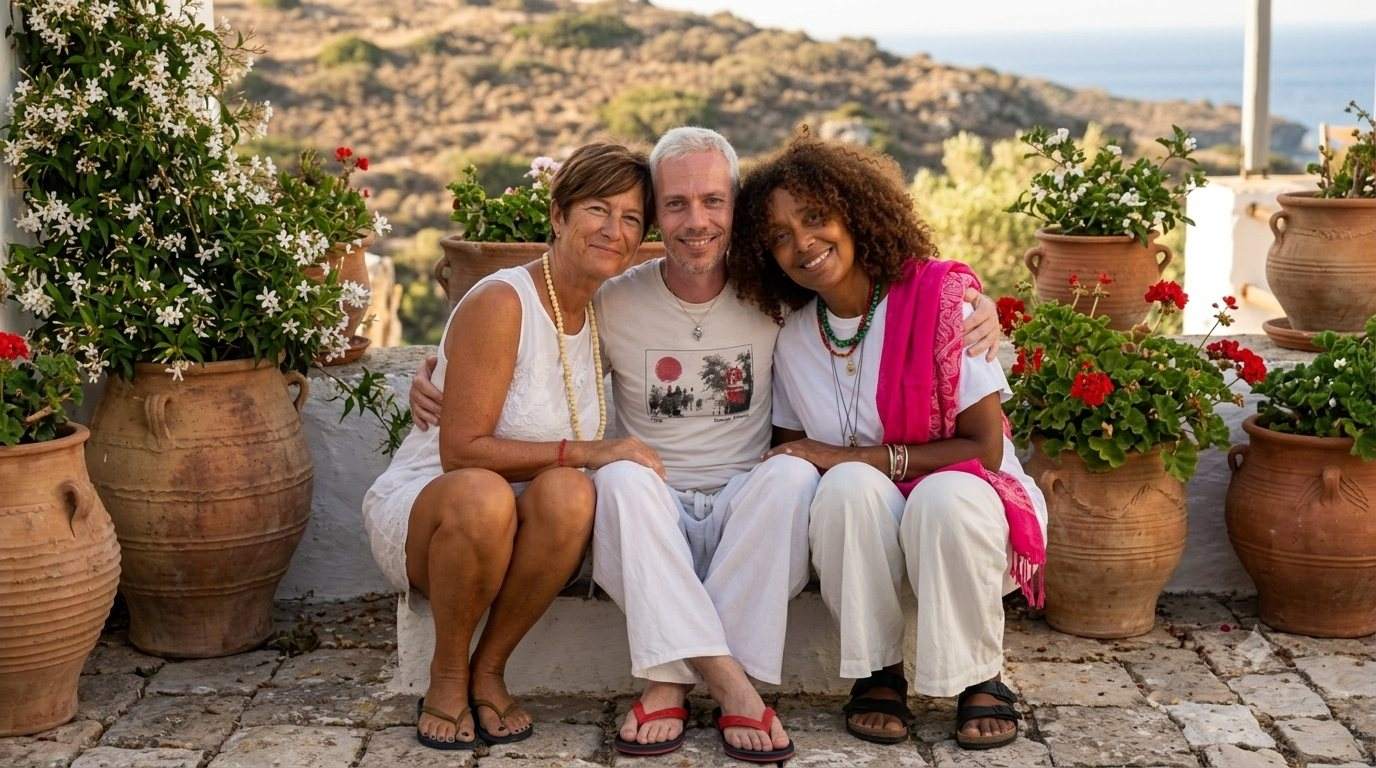
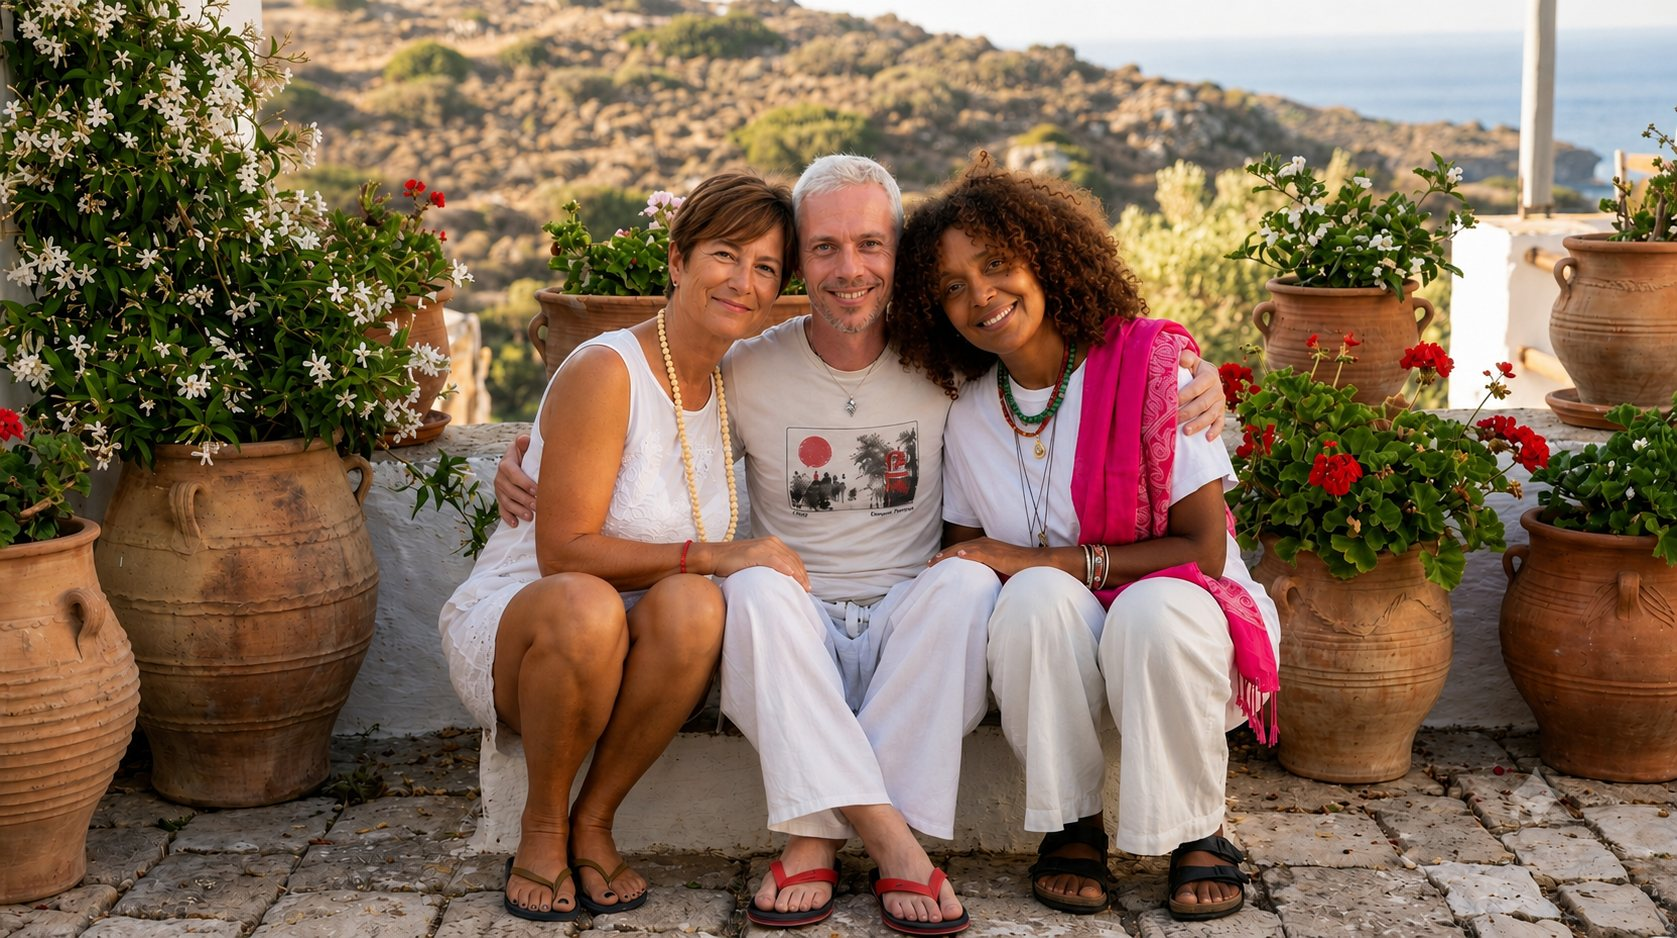
Add files via upload

diff --git a/style.css b/style.css
@@ -182,7 +182,7 @@ h1, h2, h3, h4 {
   position: fixed;
   inset: 0 0 auto 0;
   z-index: 200;
-  padding-block: 1.3rem;
+  padding-block: 1.6rem;
   transition: background .4s ease, padding .4s ease, box-shadow .4s ease;
 }
 .site-header .container { display: flex; align-items: center; justify-content: space-between; }
@@ -199,8 +199,9 @@ h1, h2, h3, h4 {
   gap: .7rem;
   font-family: var(--ff-display);
   color: var(--cream);
-  font-size: 1.25rem;
+  font-size: 1.3rem;
   letter-spacing: .01em;
+  flex-shrink: 0;
 }
 .brand-mark {
   width: 38px; height: 38px;
@@ -1730,3 +1731,224 @@ body.modal-open { overflow: hidden; }
 }
 /* eyebrow standard (non on-dark) già gestito correttamente da .eyebrow */
 /* il pulsante .btn-gold rimane invariato — nessuna sovrascrittura */
+
+/* ============================================================
+   NAV DESKTOP — etichette brevi → gap ripristinato
+   ============================================================ */
+.nav-desktop {
+  gap: clamp(1rem, 1.6vw, 2rem);
+}
+.nav-desktop a,
+.nav-desktop .nav-link-btn {
+  font-size: .9rem;
+}
+.nav-desktop .btn {
+  font-size: .84rem;
+  padding: .65rem 1.3rem;
+  margin-left: .4rem;
+  white-space: nowrap;
+}
+
+/* ============================================================
+   FOOTER GRID — 2 colonne: brand + esplora
+   ============================================================ */
+.footer-grid {
+  grid-template-columns: 1.2fr 1fr !important;
+}
+.footer-brand { grid-column: auto; }
+
+.footer-col-esplora ul {
+  display: grid;
+  grid-template-columns: 1fr 1fr;
+  gap: .5rem 1.4rem;
+}
+.footer-col-esplora ul li { line-height: 1.4; }
+
+/* pulsante Contatti nel footer — stile link */
+.footer-contact-btn {
+  background: none;
+  border: none;
+  padding: 0;
+  font-family: var(--ff-body);
+  font-size: .92rem;
+  color: rgba(250, 246, 239, .78);
+  cursor: pointer;
+  transition: color .3s ease;
+}
+.footer-contact-btn:hover { color: var(--gold-soft); }
+
+/* ============================================================
+   FOOTER BOTTOM — tre elementi: sinistra · pulsante · destra
+   ============================================================ */
+.footer-bottom {
+  display: flex;
+  justify-content: space-between;
+  align-items: center;
+  flex-wrap: wrap;
+  gap: 1rem;
+  padding-top: 2rem;
+  border-top: 1px solid rgba(250, 246, 239, .14);
+  font-size: .8rem;
+  color: rgba(250, 246, 239, .55);
+}
+
+.footer-casa-wrap {
+  display: flex;
+  flex-direction: column;
+  align-items: center;
+  gap: .3rem;
+}
+
+.footer-casa-btn {
+  background: var(--gold);
+  color: var(--bordeaux-900);
+  border: 1.5px solid var(--gold);
+  border-radius: 2px;
+  font-family: var(--ff-body);
+  font-weight: 600;
+  font-size: .78rem;
+  letter-spacing: .03em;
+  padding: .55rem 1.2rem;
+  cursor: pointer;
+  text-decoration: none;
+  transition: background .35s ease, transform .35s ease, box-shadow .35s ease;
+  white-space: nowrap;
+}
+.footer-casa-btn:hover {
+  background: var(--gold-soft);
+  transform: translateY(-2px);
+  box-shadow: 0 8px 20px -8px rgba(61,15,24,.35);
+}
+
+.footer-casa-label {
+  font-size: .68rem;
+  letter-spacing: .12em;
+  text-transform: uppercase;
+  color: rgba(250, 246, 239, .38);
+}
+
+/* responsive footer */
+@media (max-width: 980px) {
+  .footer-grid { grid-template-columns: 1fr !important; }
+  .footer-col-esplora ul { grid-template-columns: 1fr 1fr; }
+}
+@media (max-width: 640px) {
+  .footer-col-esplora ul { grid-template-columns: 1fr; }
+  .footer-bottom { justify-content: center; text-align: center; }
+}
+
+/* ============================================================
+   VISIONE — layout manifesto
+   ============================================================ */
+
+.vision-manifesto {
+  max-width: 680px;
+  margin-inline: auto;
+  text-align: center;
+  display: flex;
+  flex-direction: column;
+  align-items: center;
+  gap: 0;
+  padding-bottom: clamp(4rem, 8vw, 7rem);
+}
+
+/* titolo centrato */
+.vision-manifesto .vision-title {
+  font-family: var(--ff-display);
+  font-weight: 500;
+  font-size: clamp(2rem, 4.2vw, 3rem);
+  color: var(--bordeaux-900);
+  text-align: center;
+  margin-bottom: 1.6rem;
+}
+
+/* linea decorativa */
+.vision-rule {
+  display: flex;
+  align-items: center;
+  gap: .9rem;
+  width: min(320px, 80%);
+  margin-bottom: clamp(2.8rem, 5vw, 4.5rem);
+}
+.vision-rule-line {
+  flex: 1;
+  height: 1px;
+  background: linear-gradient(to var(--dir, right), transparent, var(--gold-deep));
+}
+.vision-rule-line:last-child { --dir: left; }
+.vision-rule-mark {
+  width: 24px;
+  height: 24px;
+  flex-shrink: 0;
+}
+
+/* citazione — punto focale, oro */
+.vision-quote-center {
+  border: none;
+  padding: 0;
+  margin: 0 0 clamp(3rem, 6vw, 5rem);
+  max-width: 600px;
+}
+.vision-quote-center p {
+  font-family: 'Fraunces', Georgia, serif;
+  font-style: italic;
+  font-weight: 400;
+  font-size: clamp(1.4rem, 2.8vw, 2rem);
+  line-height: 1.65;
+  color: var(--gold-deep);
+  letter-spacing: .01em;
+}
+
+/* corpo testo — colonna stretta, allineato sinistra */
+.vision-body {
+  text-align: left;
+  width: 100%;
+  max-width: 580px;
+}
+.vision-body p {
+  font-family: 'Inter', sans-serif;
+  font-weight: 400;
+  font-size: 1.05rem;
+  line-height: 1.82;
+  color: var(--ink-soft);
+  margin-top: 1.3rem;
+}
+.vision-body p:first-child { margin-top: 0; }
+.vision-body em {
+  font-style: italic;
+  color: var(--bordeaux-700);
+}
+
+/* brand font-size già definita nella regola principale */
+
+/* ============================================================
+   BRAND LOGO IMAGE — sostituzione cerchi SVG con logo rose
+   ============================================================ */
+.brand-mark-logo {
+  width: 42px;
+  height: 42px;
+  border-radius: 50%;
+  border: 1.5px solid var(--gold);
+  background: transparent;
+  overflow: hidden;
+  display: flex;
+  align-items: center;
+  justify-content: center;
+  flex-shrink: 0;
+}
+.brand-logo-img {
+  width: 38px;
+  height: 38px;
+  object-fit: contain;
+  display: block;
+  filter: drop-shadow(0 0 2px rgba(201,162,75,.2));
+}
+/* footer: leggermente più piccolo */
+.footer-brand .brand-mark-logo {
+  width: 38px;
+  height: 38px;
+}
+.footer-brand .brand-logo-img {
+  width: 34px;
+  height: 34px;
+}

diff --git a/index.html b/index.html
@@ -22,23 +22,21 @@
 <header class="site-header" id="siteHeader">
   <div class="container">
     <a href="#top" class="brand">
-      <span class="brand-mark">
-        <svg viewBox="0 0 24 24" fill="none" stroke="#C9A24B" stroke-width="1.2">
-          <circle cx="12" cy="12" r="2.6"/>
-          <circle cx="12" cy="12" r="6"/>
-          <circle cx="12" cy="12" r="9.5"/>
-        </svg>
+      <span class="brand-mark brand-mark-logo">
+        <img src="images/logo-sorgente.png"
+             alt="Logo I Custodi della Sorgente — rose nel cuore"
+             class="brand-logo-img">
       </span>
-      I Custodi <em>della Sorgente</em>
+      Custodi <em>della Sorgente</em>
     </a>
 
     <nav class="nav-desktop" aria-label="Navigazione principale">
       <a href="#chi-siamo">Chi siamo</a>
       <a href="#percorsi">Percorsi</a>
       <a href="#eventi">Seminari</a>
-      <a href="#frammenti">Frammenti di Cammino</a>
-      <a href="#quaderni">Quaderni della Sorgente</a>
-      <a href="#testimonianze">Testimonianze</a>
+      <a href="#frammenti">Frammenti</a>
+      <a href="#quaderni">Quaderni</a>
+      <a href="#testimonianze">Le Voci</a>
       <button class="nav-link-btn" onclick="document.getElementById('ctaOpenModal').click()">Contatti</button>
       <button class="btn btn-gold" onclick="document.getElementById('ctaOpenModal').click()">Iscriviti</button>
     </nav>
@@ -128,27 +126,40 @@
 <!-- ===== LA NOSTRA VISIONE ===== -->
 <section id="visione" class="section vision-section">
   <div class="container">
+    <div class="vision-manifesto reveal">
 
-    <!-- Titolo -->
-    <div class="vision-header reveal">
+      <!-- 1. Titolo centrato -->
       <h2 class="vision-title">La Nostra Visione</h2>
+
+      <!-- 2. Linea decorativa -->
+      <div class="vision-rule" aria-hidden="true">
+        <span class="vision-rule-line"></span>
+        <svg class="vision-rule-mark" viewBox="0 0 24 24" fill="none">
+          <circle cx="12" cy="12" r="2.6" stroke="var(--gold)" stroke-width="1.2"/>
+          <circle cx="12" cy="12" r="6"   stroke="var(--gold)" stroke-width=".9" opacity=".55"/>
+        </svg>
+        <span class="vision-rule-line"></span>
+      </div>
+
+      <!-- 3. Citazione — punto focale -->
+      <blockquote class="vision-quote-center">
+        <p>«Crediamo che nessuna tradizione custodisca da sola tutta la Verità.<br>
+        Ogni autentico cammino, quando nasce dal cuore,<br>
+        conduce alla stessa Sorgente.»</p>
+      </blockquote>
+
+      <!-- 4. Testo introduttivo — colonna stretta, allineato sinistra -->
+      <div class="vision-body">
+        <p>Non desideriamo proporre una nuova filosofia né sostituire le tradizioni esistenti.</p>
+        <p>Crediamo che ogni autentico cammino di ricerca custodisca una parte di una conoscenza più ampia. Quando impariamo ad ascoltare senza dividere, scopriamo che linguaggi diversi possono raccontare la stessa realtà.</p>
+        <p>È da questa convinzione che nasce il progetto <em>I Custodi della Sorgente</em>.</p>
+      </div>
+
     </div>
+  </div>
 
-    <!-- Citazione -->
-    <blockquote class="vision-quote reveal">
-      <p>«Crediamo che nessuna tradizione custodisca da sola tutta la Verità.<br>
-      Ogni autentico cammino, quando nasce dal cuore,<br>
-      conduce alla stessa Sorgente.»</p>
-    </blockquote>
-
-    <!-- Testo introduttivo -->
-    <div class="vision-intro reveal">
-      <p>Non desideriamo proporre una nuova filosofia né sostituire le tradizioni esistenti.</p>
-      <p>Crediamo che ogni autentico cammino di ricerca custodisca una parte di una conoscenza più ampia. Quando impariamo ad ascoltare senza dividere, scopriamo che linguaggi diversi possono raccontare la stessa realtà.</p>
-      <p>È da questa convinzione che nasce il progetto <em>I Custodi della Sorgente</em>.</p>
-    </div>
-
-    <!-- Cinque pilastri -->
+  <div class="container">
+    <!-- I sette pilastri -->
     <div class="pillars reveal-stagger">
 
       <div class="pillar">
@@ -786,34 +797,27 @@
 
       <div class="footer-brand">
         <a href="#top" class="brand">
-          <span class="brand-mark">
-            <svg viewBox="0 0 24 24" fill="none" stroke="#C9A24B" stroke-width="1.2">
-              <circle cx="12" cy="12" r="2.6"/>
-              <circle cx="12" cy="12" r="6"/>
-              <circle cx="12" cy="12" r="9.5"/>
-            </svg>
+          <span class="brand-mark brand-mark-logo">
+            <img src="images/logo-sorgente.png"
+                 alt="Logo I Custodi della Sorgente"
+                 class="brand-logo-img">
           </span>
           I Custodi <em>della Sorgente</em>
         </a>
-        <p>Seminari, eventi e percorsi di crescita personale per il benessere di corpo, mente e spirito, dal 2010.</p>
+        <p>Seminari, eventi e percorsi di crescita personale per il benessere di corpo, mente, anima e spirito.</p>
       </div>
 
-      <div class="footer-col">
+      <div class="footer-col footer-col-esplora">
         <h4>Esplora</h4>
         <ul>
+          <li><a href="#top">Home</a></li>
           <li><a href="#chi-siamo">Chi siamo</a></li>
           <li><a href="#percorsi">Percorsi</a></li>
-          <li><a href="#eventi">Seminari</a></li>
-          <li><a href="#testimonianze">Testimonianze</a></li>
-        </ul>
-      </div>
-
-      <div class="footer-col">
-        <h4>Contatti</h4>
-        <ul>
-          <li><a href="#contatti">Via del Respiro 9, San Lorenzo (SI)</a></li>
-          <li><a href="tel:+390577987654">+39 0577 987 654</a></li>
-          <li><a href="mailto:[email redacted]">[email redacted]</a></li>
+          <li><a href="#eventi">Seminari ed Eventi</a></li>
+          <li><a href="#frammenti">Frammenti di Cammino</a></li>
+          <li><a href="#quaderni">Quaderni della Sorgente</a></li>
+          <li><a href="#testimonianze">Le Voci del Cammino</a></li>
+          <li><button class="footer-contact-btn" onclick="document.getElementById('ctaOpenModal').click()">Contatti</button></li>
         </ul>
       </div>
 
@@ -826,8 +830,12 @@
     </div>
 
     <div class="footer-bottom">
-      <span>© <span id="year"></span> I Custodi della Sorgente. Tutti i diritti riservati.</span>
       <span>Realizzato con cura, respiro dopo respiro.</span>
+      <div class="footer-casa-wrap">
+        <a href="casa-dei-custodi.html" class="btn footer-casa-btn">La Casa dei Custodi</a>
+        <span class="footer-casa-label">Area riservata</span>
+      </div>
+      <span>© <span id="year"></span> I Custodi della Sorgente.</span>
     </div>
   </div>
 </footer>